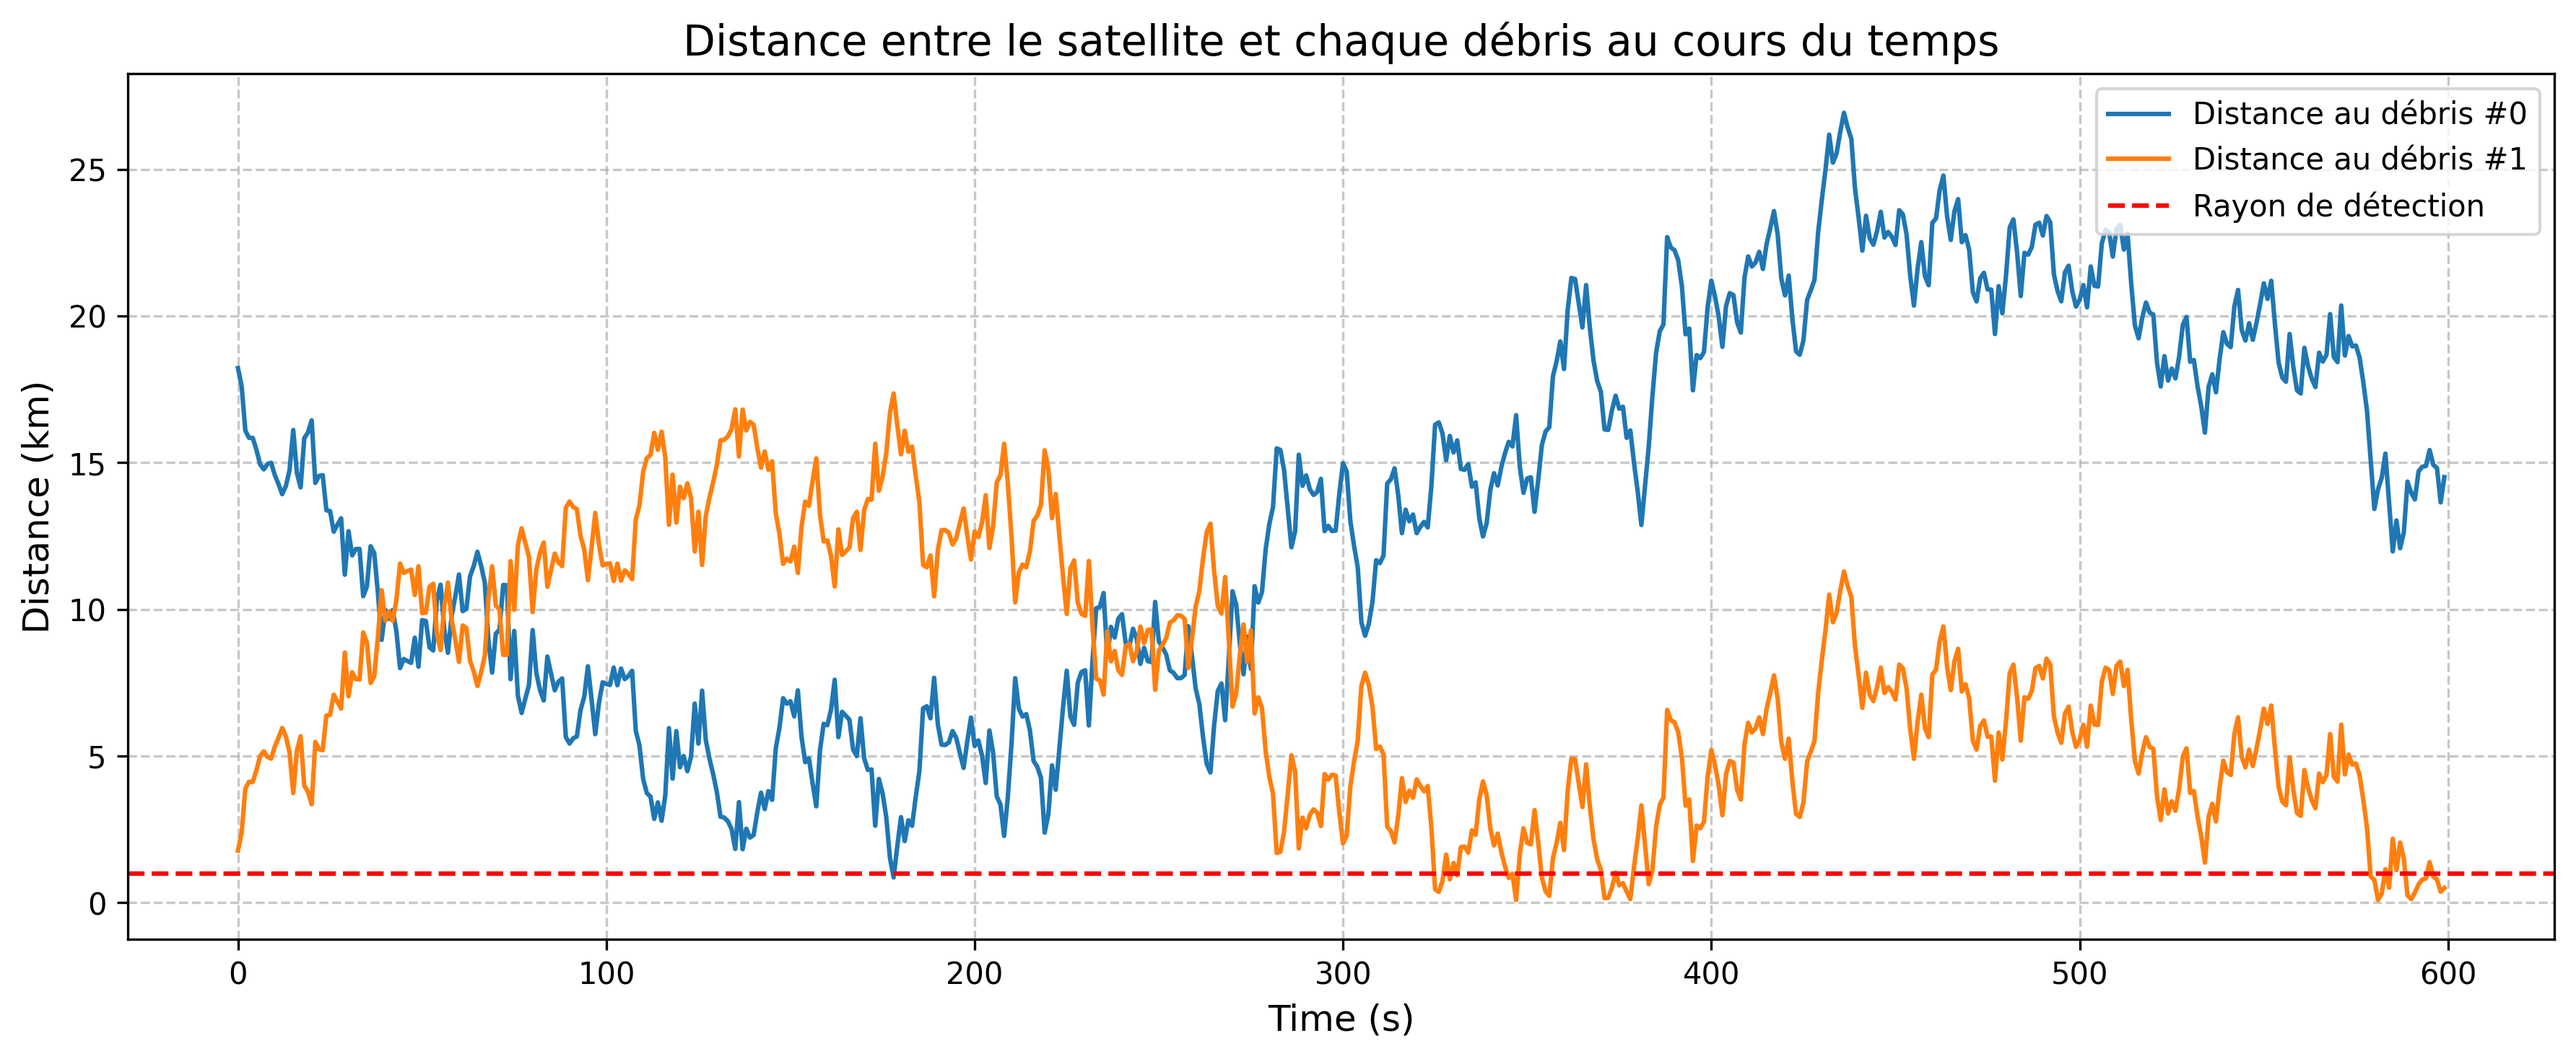
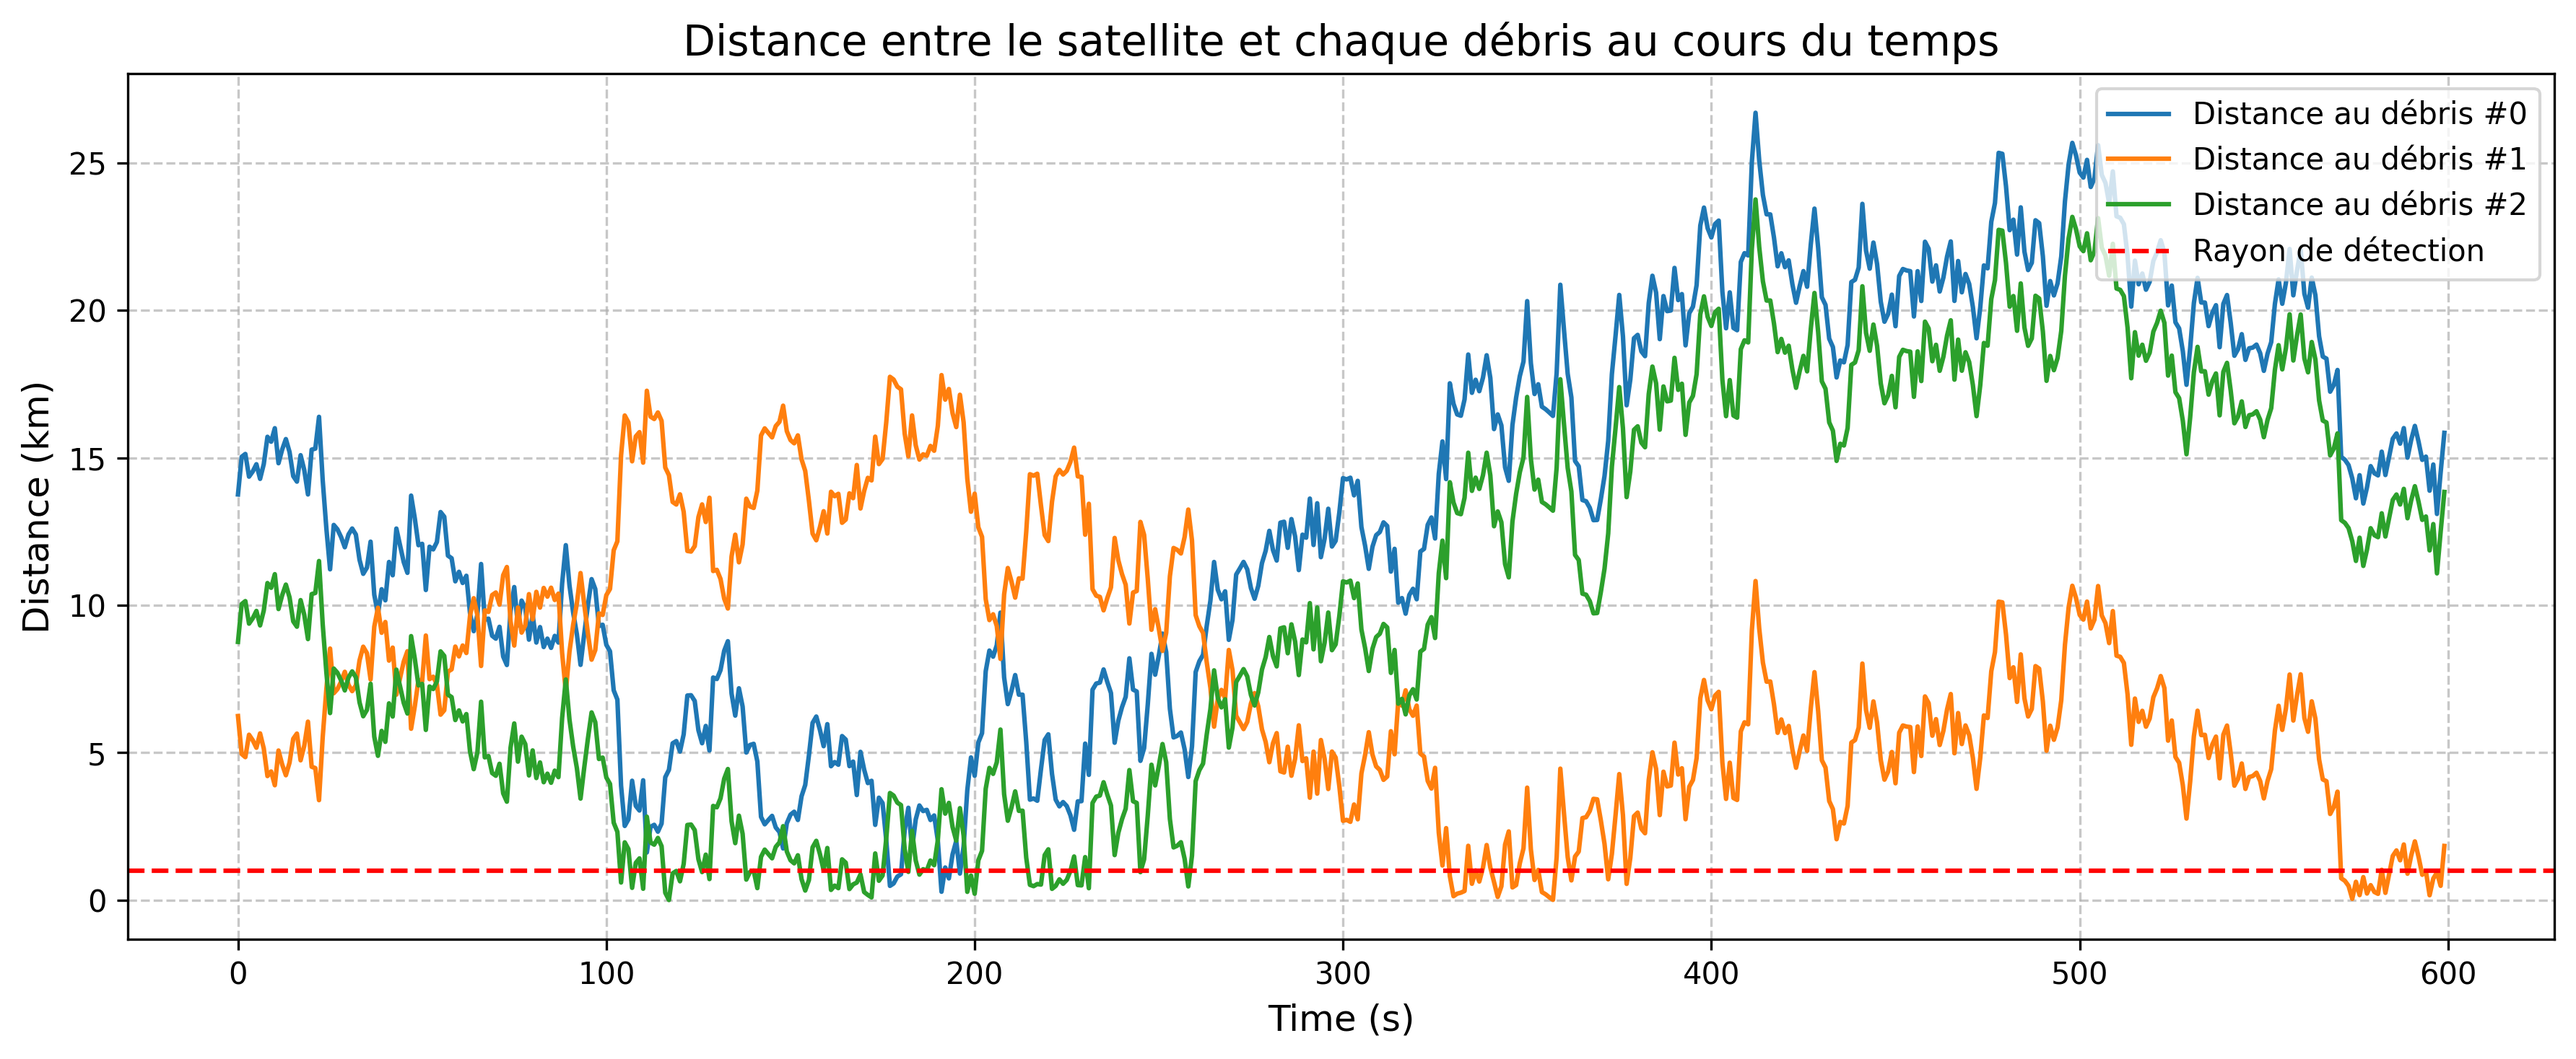
feat: Ajouter la lecture des états de débris depuis un fichier JSON et mise à jour des figures de simulation

diff --git a/.history/main_20250713111814.py b/.history/main_20250713111814.py
@@ -14,8 +14,8 @@ if __name__ == "__main__":
     realistic_velocity = (np.max(true_positions) - np.min(true_positions)) / duration
     tracker = SatelliteTracker(initial_pos=true_positions[0], initial_vel=realistic_velocity, dt=dt)
 
-    # Lecture des débris depuis un fichier de config dédié
-    with open('configs/debris_leo.json', 'r') as f:
+    # Lecture des débris depuis un fichier externe JSON
+    with open('debris_config.json', 'r') as f:
         debris_states = json.load(f)
     detection_radius = 1.0  # km (seuil typique pour l'alerte collision dans le spatial)
 

diff --git a/.history/main_20250713111859.py b/.history/main_20250713111859.py
@@ -14,8 +14,8 @@ if __name__ == "__main__":
     realistic_velocity = (np.max(true_positions) - np.min(true_positions)) / duration
     tracker = SatelliteTracker(initial_pos=true_positions[0], initial_vel=realistic_velocity, dt=dt)
 
-    # Lecture des débris depuis un fichier de config dédié
-    with open('configs/debris_leo.json', 'r') as f:
+    # Lecture des débris depuis un fichier externe JSON
+    with open('debris_config.json', 'r') as f:
         debris_states = json.load(f)
     detection_radius = 1.0  # km (seuil typique pour l'alerte collision dans le spatial)
 
